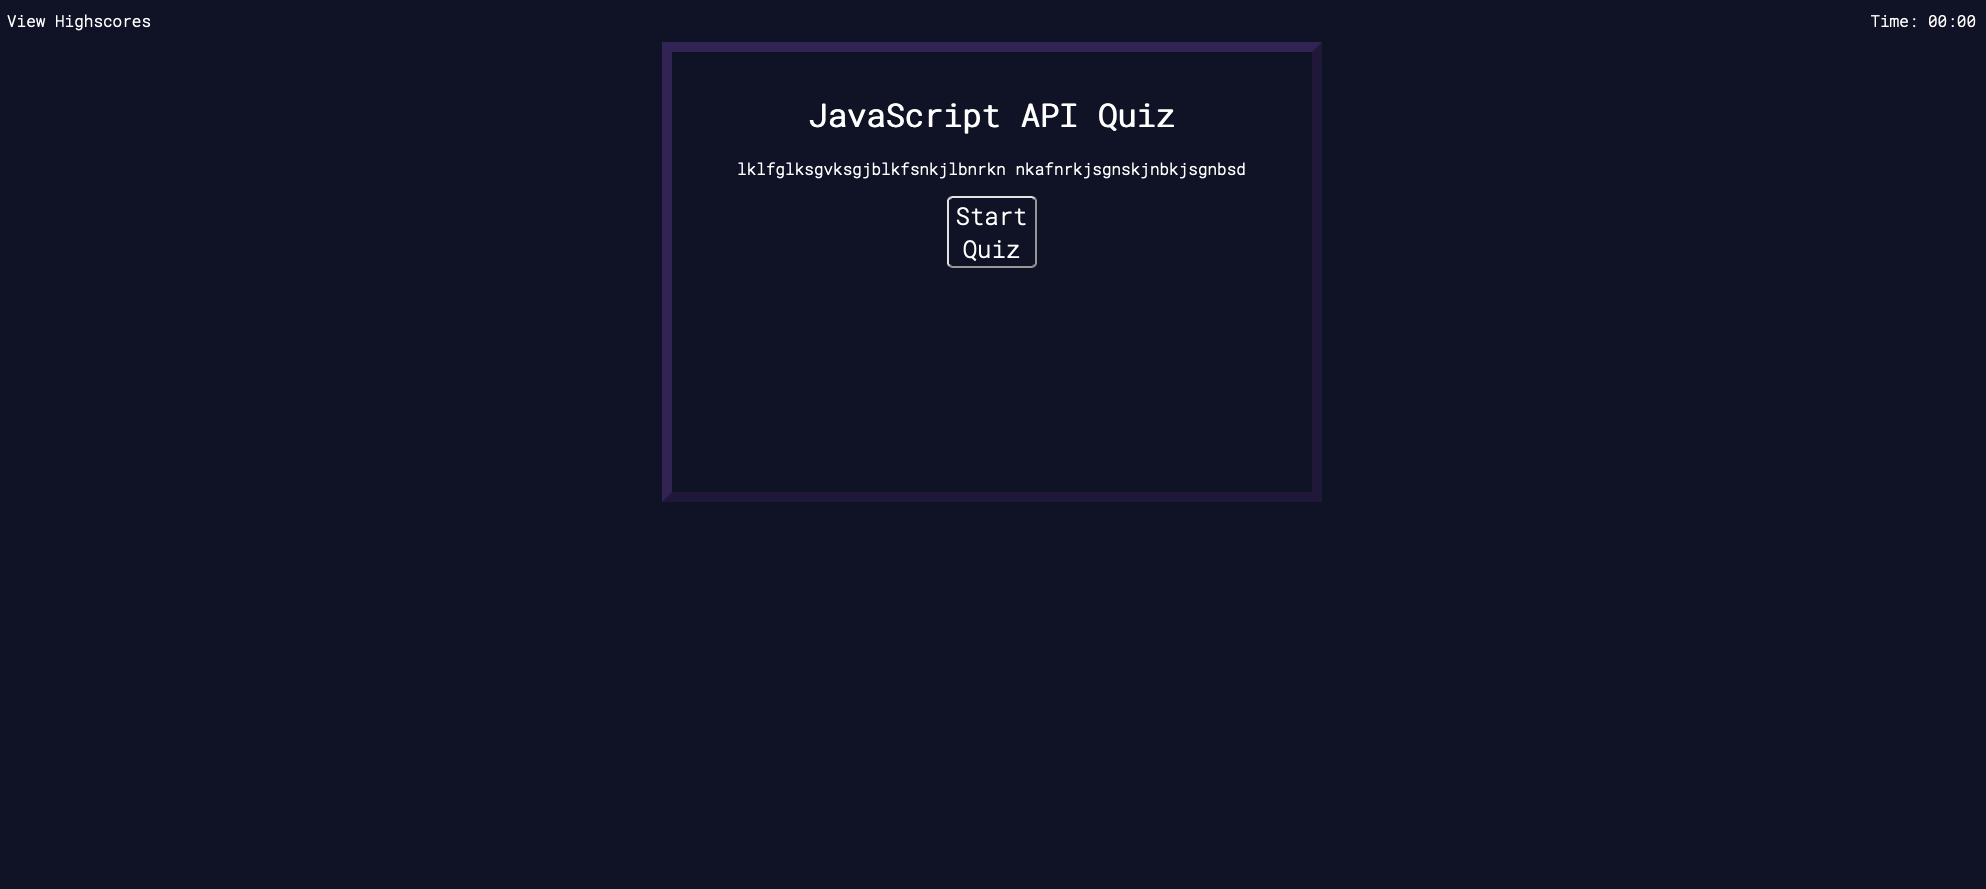
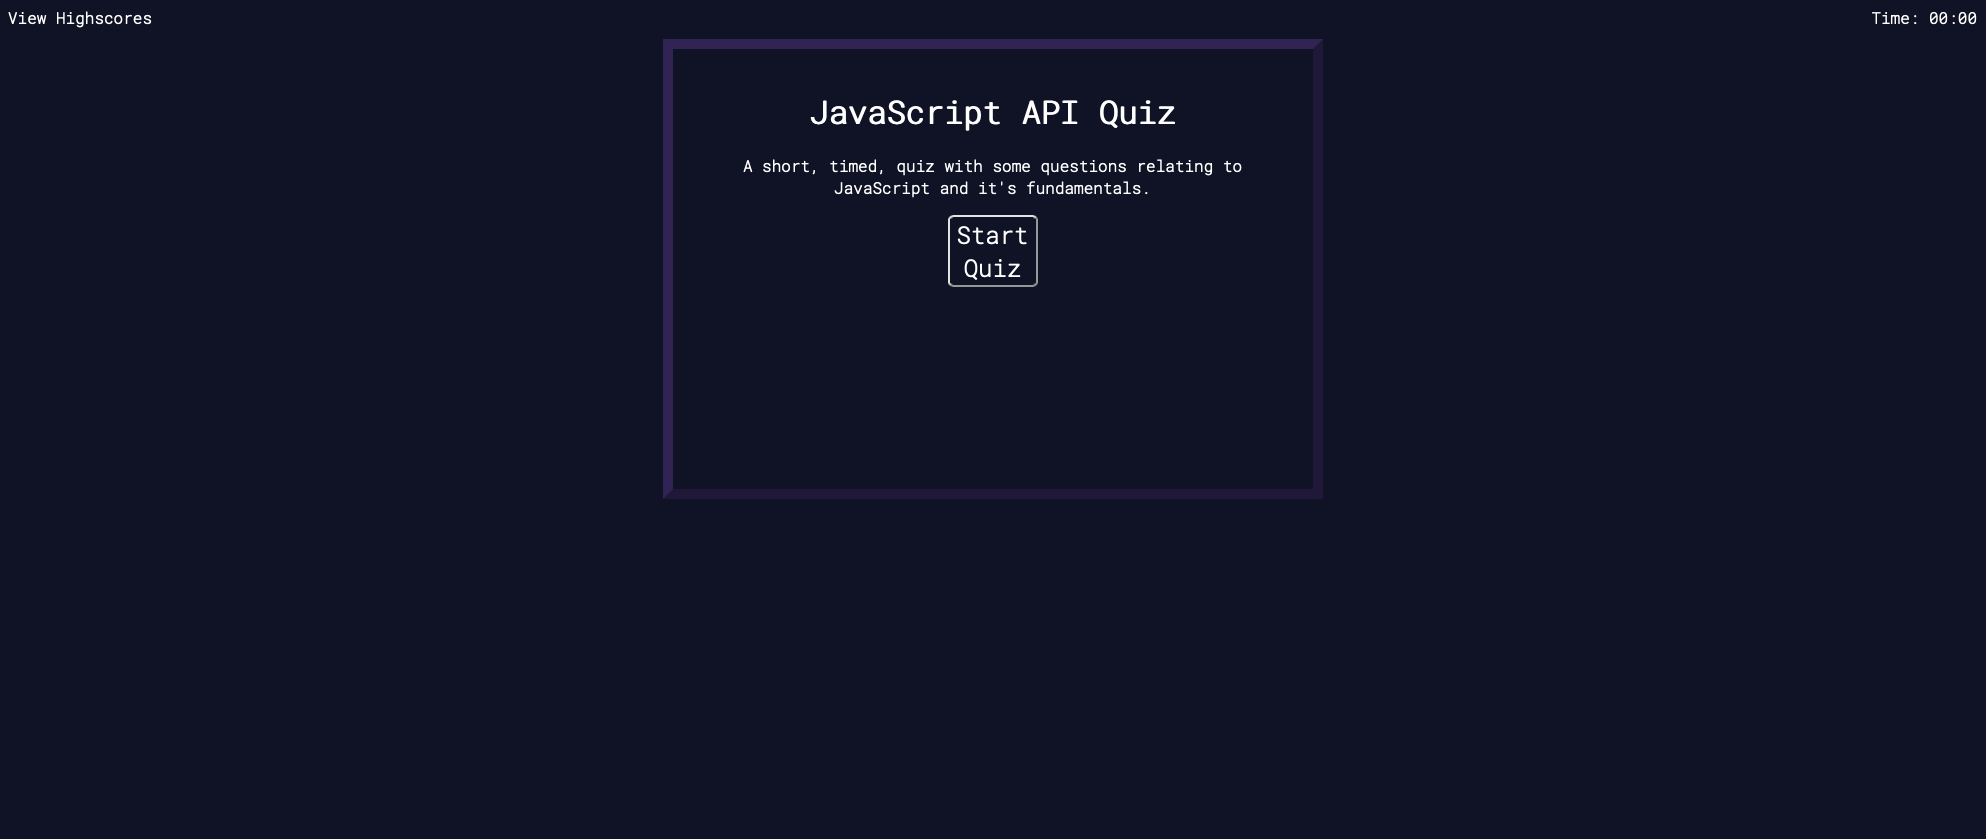
Fixed screenshot and tag issue in main page

diff --git a/index.html b/index.html
@@ -20,7 +20,7 @@
     <main>
       <div id="start-quiz-screen" class="quiz-container" data-state="visible">
         <h1>JavaScript API Quiz</h1>
-        <p>A short, timed, quiz with some questions relating to JavaScript and it's fundamentals./p>
+        <p>A short, timed, quiz with some questions relating to JavaScript and it's fundamentals.</p>
         <button id="start-button">Start Quiz</button>
       </div>
       
